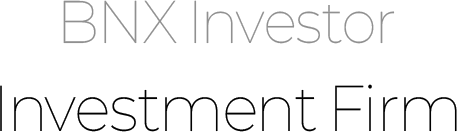
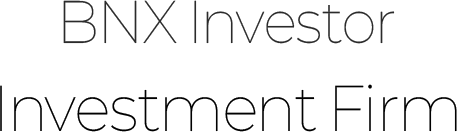
text

Changed region(s): [[0.3676, 0.0, 0.8578, 0.3333], [0.1225, 0.0, 0.3676, 0.3333]]

diff --git a/app.js b/app.js
@@ -15,7 +15,7 @@ const CANVAS_SIZE = LAYOUT.canvas.width;
 
 const ASSETS = {
   background: './assets/pfBackground.png',
-  investor: './assets/bnxInvestor.png',
+  investor: './assets/bnxInvestor.png?v=2',
   font: './assets/Paperlogy-3Light.ttf',
 };
 

diff --git a/index.html b/index.html
@@ -55,6 +55,6 @@
     </main>
   </div>
 
-  <script src="app.js?v=23"></script>
+  <script src="app.js?v=24"></script>
 </body>
 </html>